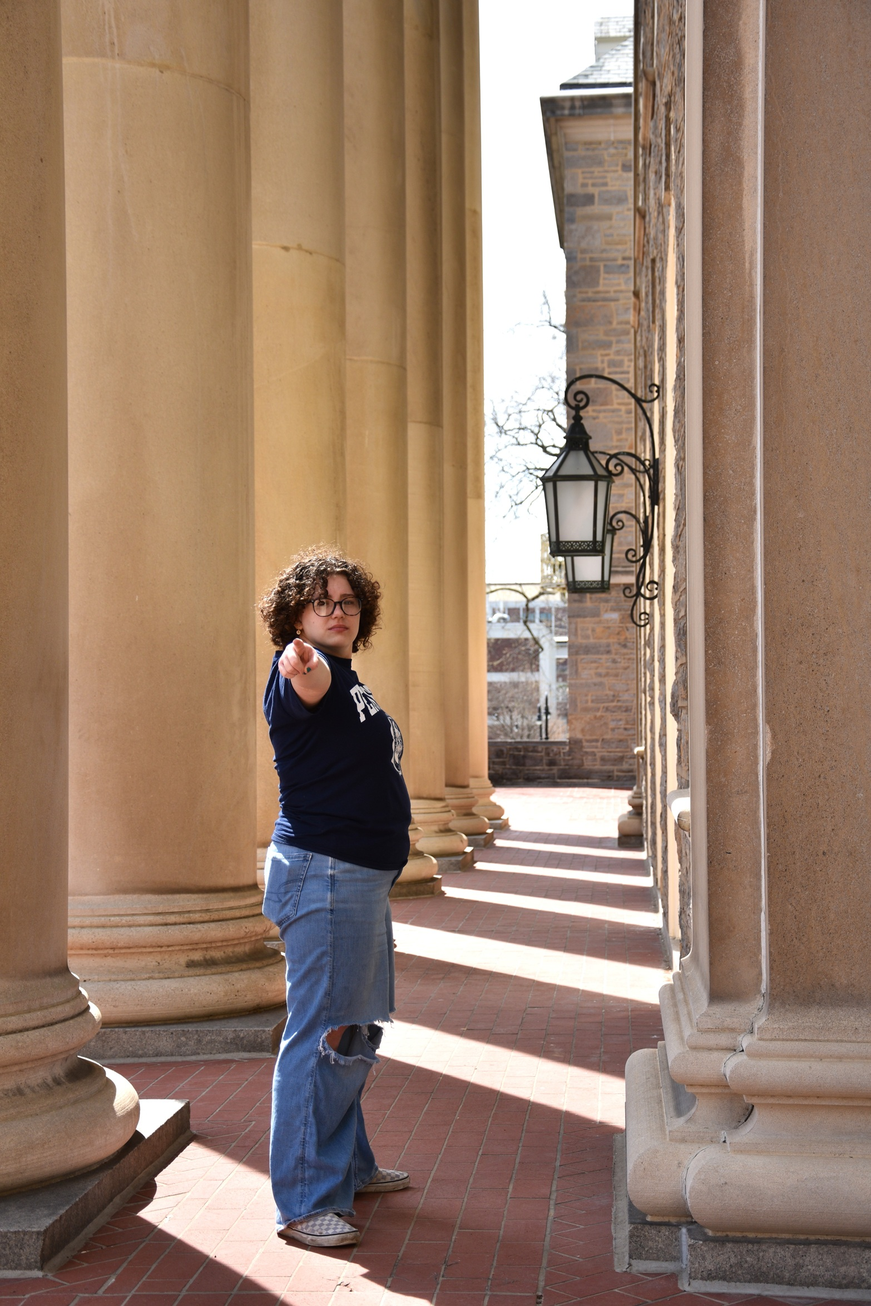
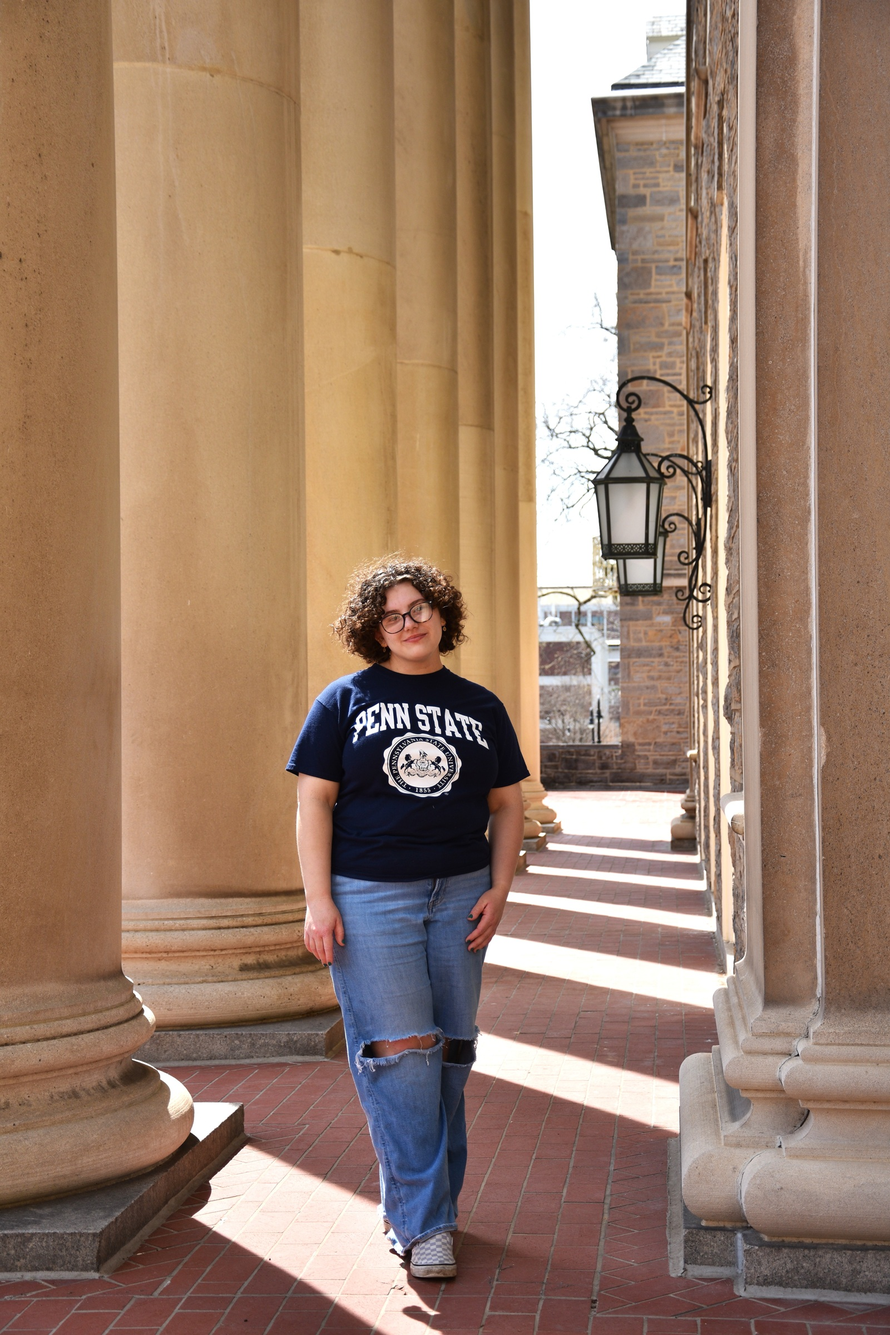
tweaks to photo selection, photo preview css

diff --git a/events-gallery.html b/events-gallery.html
@@ -9,7 +9,7 @@
     <link href="css/gallery.css" rel="stylesheet" />
     <script src="lightbox-plus-jquery.js" defer></script>
     <script src="sidebar.js" defer></script>
-    <title>events Gallery - Erik Graybill</title>
+    <title>Events Gallery - Erik Graybill</title>
 </head>
 <body>
     <div class="header">
@@ -48,7 +48,7 @@
         <a href="images/events/engagement-1.jpg" data-lightbox="gallery"><img src="images/events/pv-engagement-1.jpg"></a>
         <a href="images/events/graduation-2.JPG" data-lightbox="gallery"><img src="images/events/pv-graduation-2.JPG"></a>
         <a href="images/events/reenactment-1.jpg" data-lightbox="gallery"><img src="images/events/pv-reenactment-1.jpg"></a>
-        <a href="images/events/firebirds-3.JPG" data-lightbox="gallery"><img src="images/events/pv-firebirds-3.JPG"></a>
+        <a href="images/events/cats.jpg" data-lightbox="gallery"><img src="images/events/pv-cats.jpg"></a>
         <a href="images/events/graduation-1.JPG" data-lightbox="gallery"><img src="images/events/pv-graduation-1.JPG"></a>
         <a href="images/events/engagement-3.jpg" data-lightbox="gallery"><img src="images/events/pv-engagement-3.jpg"></a>
         <a href="images/events/firebirds-2.JPG" data-lightbox="gallery"><img src="images/events/pv-firebirds-2.JPG"></a>

diff --git a/css/gallery.css b/css/gallery.css
@@ -34,7 +34,7 @@
     100% {opacity: 100%;}
 }
 
-@media screen and (max-width: 700px) {
+@media screen and (max-width: 1000px) {
     .gallery-info {
         margin: 0px 10px;
     }
